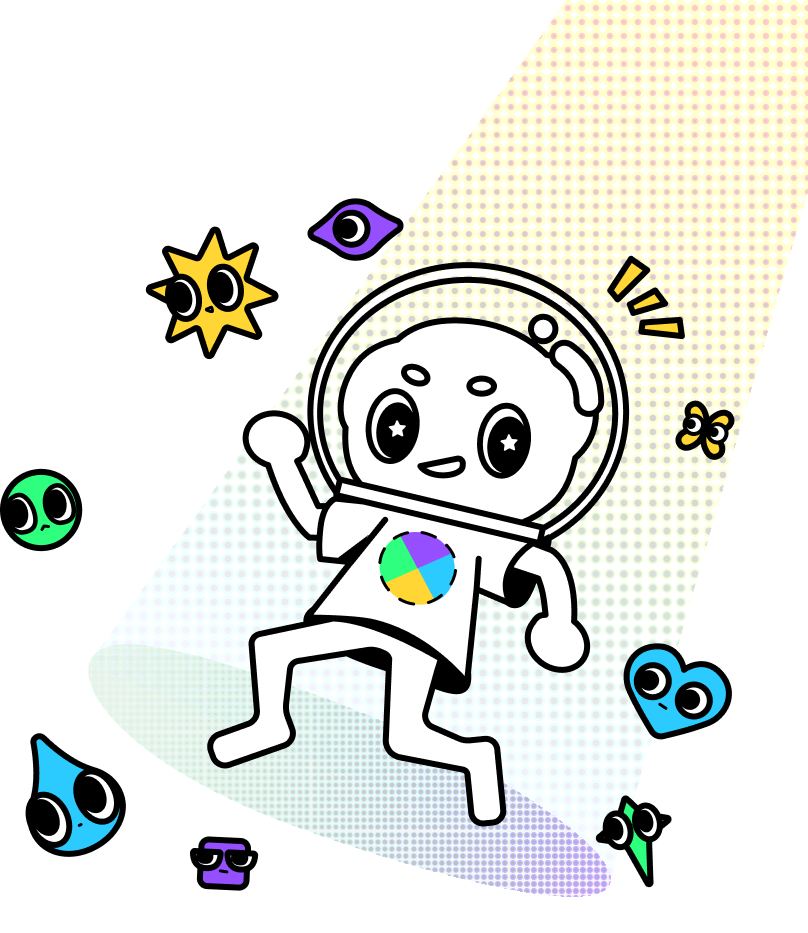
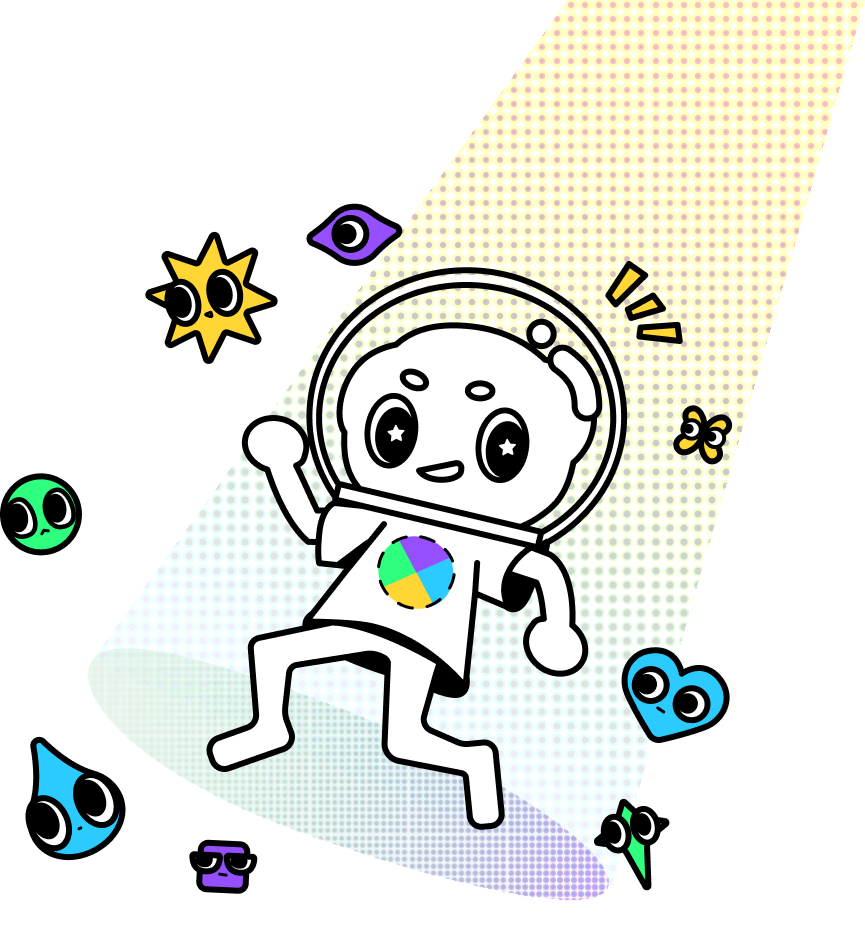
banner大改版

diff --git a/src/pages/Home.jsx b/src/pages/Home.jsx
@@ -4,6 +4,7 @@ import { Selectadmin, articleEditing } from "../redux/adminSlice";
 import Navbar from "../components/Navbar";
 import { Link } from "react-router-dom";
 import homeData from "../json/home.json";
+import Banner from "../components/Banner";
 import HomeSection from "../components/HomeSection";
 // import {} from "../redux/adminSlice"
 const HomeView = () => {
@@ -25,26 +26,9 @@ const HomeView = () => {
   //   console.log(admin);
   return (
     <>
-      <Navbar posr={true}></Navbar>
+      <Navbar ></Navbar>
       <div className="home-container">
-        <div className="home-top">
-          <div className="home-top-newcont">
-            <div className="homeValue">
-              <img className="homeTitle" src="./images/Frame.png"></img>
-              <div className="homeSlogan homeSlogan-text">透過MBTI來認識</div>
-              <div className="homeSlogan homeSlogan-text">誕生於宇宙中</div>
-              <div className="homeSlogan homeSlogan-text">獨一無二的自己</div>
-              <Link className="go-btn homeSlogan-text" to="/worldView">
-                世界觀 GO!
-              </Link>
-            </div>
-            <img className="homebg1" src="./images/cover.png"></img>
-
-          </div>
-
-          {/* <img className="down-btn" src="./images/downBtn.png"></img> */}
-        </div>
-
+        <Banner></Banner>
         <div className="home-content">
           {homeData.map((item) => {
             return <HomeSection item={item}></HomeSection>;
@@ -56,3 +40,4 @@ const HomeView = () => {
 };
 
 export default HomeView;
+

diff --git a/src/banner.css b/src/banner.css
@@ -1,0 +1,50 @@
+@font-face {
+    font-family: 'ヒラギノ角ゴ ProN W8';
+    src: url(./fonts/ヒラギノ角ゴシック\ W8.ttc) format('');
+  }
+  
+.Banner{
+    display: flex;
+    height: 100%;
+    width: 100%;
+    min-height: 60vw;
+}
+.cover{
+    width: 60%;
+    background-image: url(../public/images/cover_old.png);
+    background-repeat: no-repeat;
+    background-size: 100%;
+}
+.intro{
+    width: 40%;
+    display: flex;
+    flex-direction: column;
+    padding-left: 15%;
+    padding-right: 5%;
+    justify-content:center;
+}
+.item{
+    margin-bottom: 30px;
+}
+.typo{
+    height: 4vw;
+    background-image: url(../public/images/Frame.png);
+    background-repeat: no-repeat;
+    background-size: contain;
+   
+}
+.content{
+    font-family: 'ヒラギノ角ゴ ProN W8';
+    font-size: 2.3vw;
+}
+.button{
+    background: #FFF;
+    margin-bottom: 0px;    
+}
+.b_text{
+    padding: 10px 20px;
+    font-family: 'ヒラギノ角ゴ ProN W8';
+    width: 13vw;
+    outline: 6px solid;
+    font-size: 2.3vw;
+}

diff --git a/src/App.css b/src/App.css
@@ -161,7 +161,7 @@ align-items: center;
   /* background-color: brown; */
   min-height: 100vh;
   /* position: relative; */
-  margin-top: 42px;
+  /* margin-top: 42px; */
   /* overflow-x: hidden; */
 display: flex;
 flex-direction: column;
@@ -183,7 +183,7 @@ align-items: center;
   justify-content: center;
 }
 .homebg1{
-  width:728px;
+  /* width:728px; */
   position: relative;
   margin-left: 55px;
   /* right: -120px; */
@@ -232,7 +232,7 @@ color: #2B2B2B;
 }
 .home-content{
   max-width: 1440px;
-  margin: 210px 80px  0 80px;
+  margin: 0px 80px  0 80px;
   position: relative;
   display: flex;
   flex-direction: column;

diff --git a/src/components/Banner.jsx b/src/components/Banner.jsx
@@ -1,0 +1,28 @@
+import '../banner.css';
+import '../App.css';
+
+const Banner = () => {
+
+  return (
+    <div className="Banner">
+      <div className="intro">
+        <div className="item typo"></div>
+        
+        <div className="item content">
+        透過MBTI來認識<br></br>誕生於宇宙中<br></br>獨一無二的自己
+        </div>
+        <div className="item button">
+        <div className="b_text">
+          世界觀 GO!
+        </div>
+        </div>
+
+      </div>
+
+      <div className="cover">
+      </div>
+    </div>
+  );
+};
+
+export default Banner;
